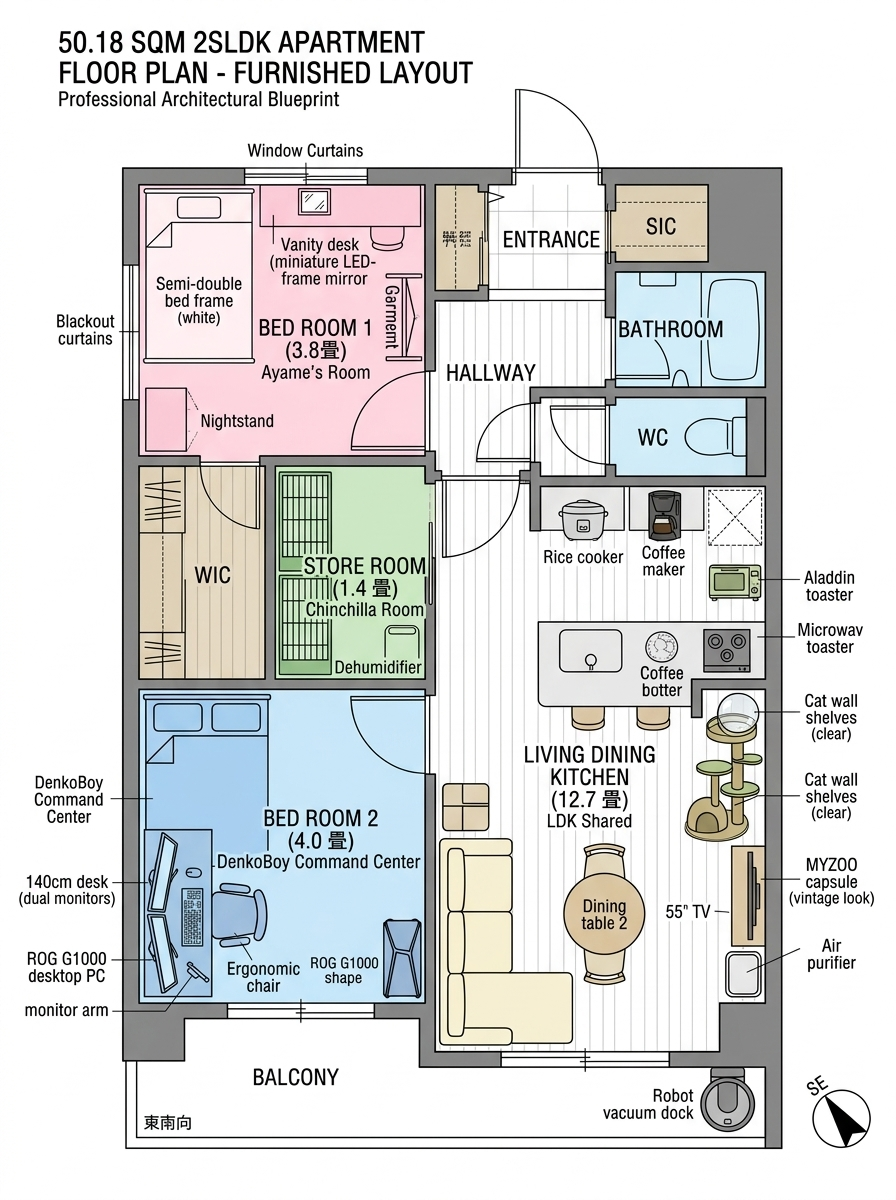
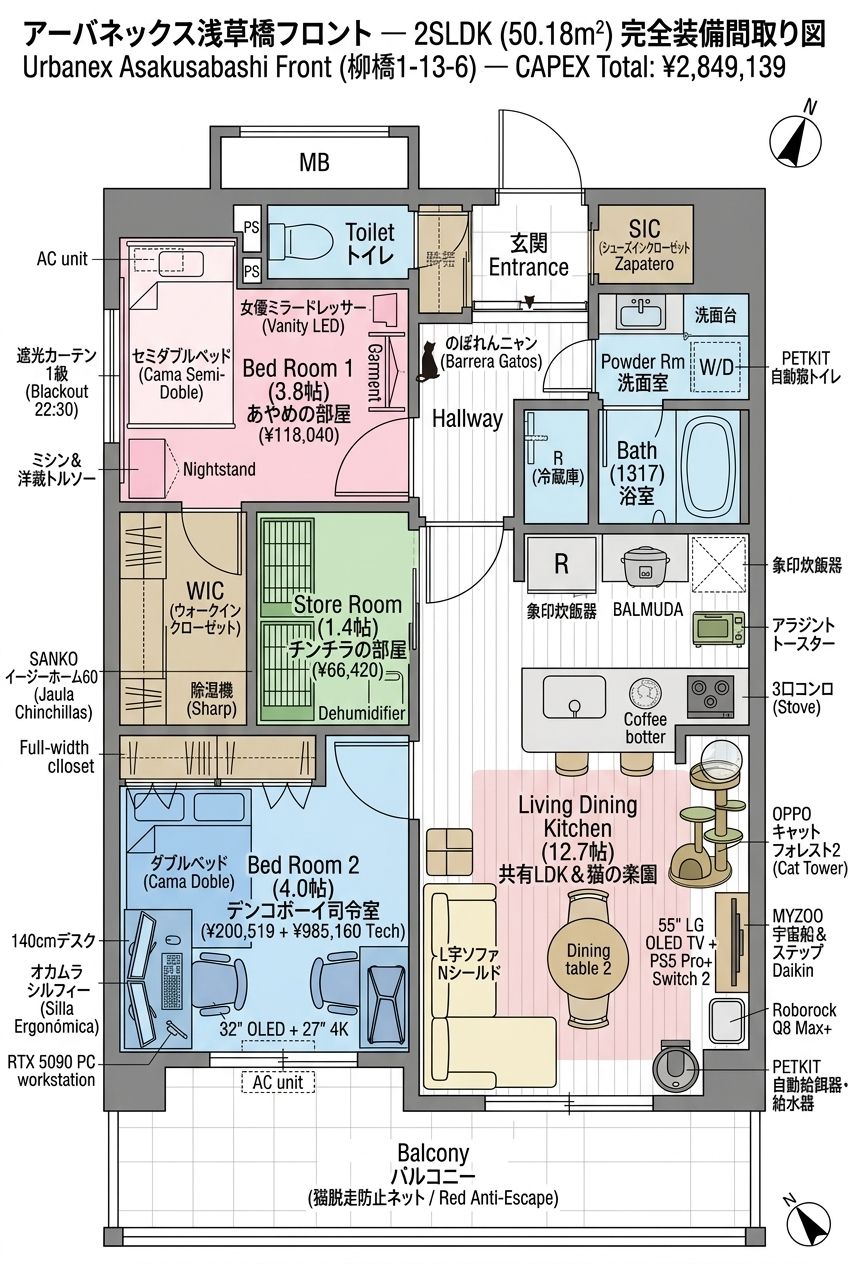
Regenerate all 5 apartment floorplans matching exact real 2SLDK 50.18m2 layout and clean CAPEX prices

diff --git a/index.html b/index.html
@@ -666,19 +666,21 @@
             
             <!-- Plan Tabs -->
             <div style="display:flex; gap:8px; flex-wrap:wrap; margin-bottom:1.5rem;">
-                <button class="plan-tab active" onclick="showPlan('general', this)">🏠 全体 / General</button>
-                <button class="plan-tab" onclick="showPlan('ayame', this)">🌸 あやめの部屋</button>
-                <button class="plan-tab" onclick="showPlan('denkoboy', this)">💻 デンコボーイ司令室</button>
-                <button class="plan-tab" onclick="showPlan('ldk', this)">🛋 LDK (12.7帖)</button>
-                <button class="plan-tab" onclick="showPlan('bathroom', this)">🚿 水回り / Baño</button>
+                <button class="plan-tab active" onclick="showPlan('general', this)">🏠 全体 / General Amueblado (2SLDK 50.18m²)</button>
+                <button class="plan-tab" onclick="showPlan('ayame', this)">🌸 Bed Room 1: あやめの部屋 & アトリエ (3.8帖 + WIC)</button>
+                <button class="plan-tab" onclick="showPlan('denkoboy', this)">💻 Bed Room 2: デンコボーイ司令室 (4.0帖)</button>
+                <button class="plan-tab" onclick="showPlan('ldk', this)">🛋 LDK (12.7帖) + Store Room チンチラ (1.4帖)</button>
+                <button class="plan-tab" onclick="showPlan('bathroom', this)">🚿 水回り & 玄関 / Baño y Entrada</button>
+                <button class="plan-tab" onclick="showPlan('madori', this)">📐 間取り図 Oficial (RF12)</button>
             </div>
             
             <div style="display: flex; justify-content: center; width: 100%;">
-                <img id="plan-general" src="assets/plan_general.png" alt="Plano General 間取り図" class="floor-plan-img" style="display:block;">
-                <img id="plan-ayame" src="assets/plan_room1_ayame.jpg" alt="あやめの部屋 Bed Room 1" class="floor-plan-img" style="display:none;">
-                <img id="plan-denkoboy" src="assets/plan_room2_denkoboy.jpg" alt="デンコボーイ司令室 Bed Room 2" class="floor-plan-img" style="display:none;">
-                <img id="plan-ldk" src="assets/plan_ldk.jpg" alt="LDK リビング・ダイニング・キッチン" class="floor-plan-img" style="display:none;">
-                <img id="plan-bathroom" src="assets/plan_bathroom.jpg" alt="水回り トイレ・洗面室・浴室" class="floor-plan-img" style="display:none;">
+                <img id="plan-general" src="assets/plan_general.png?v=2" alt="Plano General Amueblado 間取り図" class="floor-plan-img" style="display:block;">
+                <img id="plan-ayame" src="assets/plan_room1_ayame.jpg?v=2" alt="あやめの部屋 Bed Room 1 (3.8帖 + WIC)" class="floor-plan-img" style="display:none;">
+                <img id="plan-denkoboy" src="assets/plan_room2_denkoboy.jpg?v=2" alt="デンコボーイ司令室 Bed Room 2 (4.0帖)" class="floor-plan-img" style="display:none;">
+                <img id="plan-ldk" src="assets/plan_ldk.jpg?v=2" alt="LDK (12.7帖) + Store Room (1.4帖)" class="floor-plan-img" style="display:none;">
+                <img id="plan-bathroom" src="assets/plan_bathroom.jpg?v=2" alt="水回り & 玄関 トイレ・洗面室・浴室" class="floor-plan-img" style="display:none;">
+                <img id="plan-madori" src="assets/plan_madori_real.png?v=2" alt="間取り図 Oficial RF12" class="floor-plan-img" style="display:none;">
             </div>
         </section>
 
@@ -1431,9 +1433,10 @@
         }
         // Floor Plan Gallery
         function showPlan(planName, btn) {
-            const plans = ['general','ayame','denkoboy','ldk','bathroom'];
+            const plans = ['general','ayame','denkoboy','ldk','bathroom','madori'];
             plans.forEach(p => {
-                document.getElementById('plan-' + p).style.display = 'none';
+                const el = document.getElementById('plan-' + p);
+                if (el) el.style.display = 'none';
             });
             document.getElementById('plan-' + planName).style.display = 'block';
             document.querySelectorAll('.plan-tab').forEach(t => t.classList.remove('active'));
